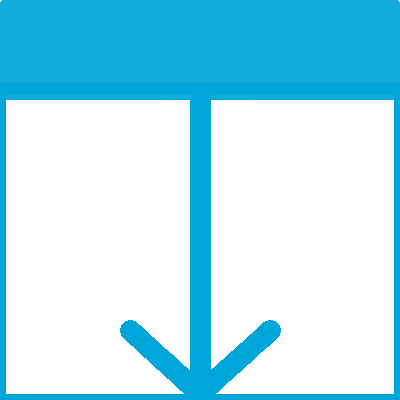
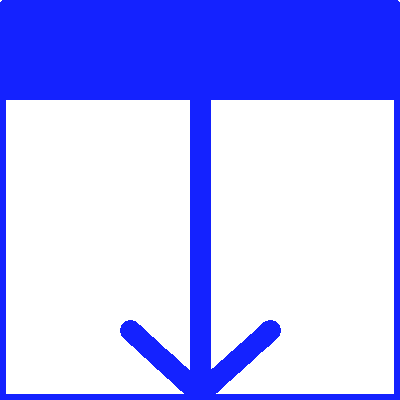
Changes to image colors to make their contrast high enough

diff --git a/templates/main/multipassage.html b/templates/main/multipassage.html
@@ -32,13 +32,13 @@
         {% endfor %}
         {% if 'manifest' in object.objectId %}
             <div class="col-12 entry-title text-center">{% if object.collections.current.sigla != '' %}{{ object.collections.current.sigla|safe }}: {% endif %}{{object.title|safe}}</div>
-            <div class="col-12 text-center"><a href="{{ object.lib_link }}" target="_blank" title="{{ _('Dieser Manuskript bei der Bibliothek in einem neuen Tab anschauen.') }}">{{ _('Zur Bibliothek')}}</a></div>
+            <div class="col-12 text-center"><a class="internal-link" href="{{ object.lib_link }}" target="_blank" title="{{ _('Dieser Manuskript bei der Bibliothek in einem neuen Tab anschauen.') }}">{{ _('Zur Bibliothek')}}</a></div>
         {% else %}
             {% if object.prev_version %}
                 {% set all_texts = all_texts|replace_indexed_item(index - 1, object.prev_version) %}
                 {% set all_reffs = all_reffs|replace_indexed_item(index - 1, 'all') %}
                 <div class="col-1">
-                    <a href="{{url_for('InstanceNemo.r_multipassage', objectIds=all_texts|join_list_values('+'), subreferences=all_reffs|join_list_values('+')) }}" title="{{ prev_obj }}"><i class="fas fa-step-backward"></i></a>
+                    <a class="internal-link" href="{{url_for('InstanceNemo.r_multipassage', objectIds=all_texts|join_list_values('+'), subreferences=all_reffs|join_list_values('+')) }}" title="{{ prev_obj }}"><i class="fas fa-step-backward"></i></a>
                 </div>
                 {% set all_texts = all_texts|replace_indexed_item(index - 1, object.objectId) %}
                 {% else %}
@@ -49,19 +49,19 @@
                 {% set all_texts = all_texts|replace_indexed_item(index - 1, session['previous_search'][ns.hit_index - 1]['_id']) %}
                 {% set all_reffs = all_reffs|replace_indexed_item(index - 1, 'all') %}
                 <div class="col-1">
-                    <a href="{{url_for('InstanceNemo.r_multipassage', objectIds=all_texts|join_list_values('+'), subreferences=all_reffs|join_list_values('+')) }}" title="{{ _('Vorheriges Suchergebnis') }}"><i class="fas fa-chevron-up"></i></a>
+                    <a class="internal-link" href="{{url_for('InstanceNemo.r_multipassage', objectIds=all_texts|join_list_values('+'), subreferences=all_reffs|join_list_values('+')) }}" title="{{ _('Vorheriges Suchergebnis') }}"><i class="fas fa-chevron-up"></i></a>
                 </div>
                 {% set all_texts = all_texts|replace_indexed_item(index - 1, object.objectId) %}
                 {% else %}
                 <div class="col-1">
                 </div>
             {% endif %}
-            <div class="col entry-title text-center">{% if object.collections.current.sigla != '' %}{{ object.collections.current.sigla|safe }}: {% endif %}{{object.collections.current.label|safe}}<a id="{{ object.objectId|replace(':', '-')|replace('.', '-') }}" tabindex="0" type="button" class="btn btn-link px-1" data-container="body" data-toggle="charter-bibl-popover" data-placement="right" data-html="true" data-content="<button type=&quot;button&quot; class=&quot;close&quot; aria-label=&quot;Close&quot; onclick=&quot;closePopup('{{ object.objectId|replace(':', '-')|replace('.', '-') }}')&quot;&gt;☒&lt;/button&gt;{{ object.collections.current.citation }}"><i class="fas fa-quote-right" title="{{ _('Empfohlene Zitierweise') }}"></i></a>{% if 'manifest' not in object.collections.current.id %}<a href="{{ url_for('InstanceNemo.r_pdf', objectId=object.collections.current.id) }}" title="{{ _('Diesen Text als PDF herunterladen.') }}"><i class="fas fa-file-download"></i></a>{% endif %}</div>
+            <div class="col entry-title text-center">{% if object.collections.current.sigla != '' %}{{ object.collections.current.sigla|safe }}: {% endif %}{{object.collections.current.label|safe}}<a id="{{ object.objectId|replace(':', '-')|replace('.', '-') }}" tabindex="0" type="button" class="btn btn-link px-1" data-container="body" data-toggle="charter-bibl-popover" data-placement="right" data-html="true" data-content="<button type=&quot;button&quot; class=&quot;close&quot; aria-label=&quot;Close&quot; onclick=&quot;closePopup('{{ object.objectId|replace(':', '-')|replace('.', '-') }}')&quot;&gt;☒&lt;/button&gt;{{ object.collections.current.citation }}"><i class="fas fa-quote-right" title="{{ _('Empfohlene Zitierweise') }}"></i></a>{% if 'manifest' not in object.collections.current.id %}<a class="internal-link" href="{{ url_for('InstanceNemo.r_pdf', objectId=object.collections.current.id) }}" title="{{ _('Diesen Text als PDF herunterladen.') }}"><i class="fas fa-file-download"></i></a>{% endif %}</div>
             {% if ns.hit_index != -1 and ns.hit_index + 1 < session['previous_search']|length %}
                 {% set all_texts = all_texts|replace_indexed_item(index - 1, session['previous_search'][ns.hit_index + 1]['_id']) %}
                 {% set all_reffs = all_reffs|replace_indexed_item(index - 1, 'all') %}
                 <div class="col-1">
-                    <a href="{{url_for('InstanceNemo.r_multipassage', objectIds=all_texts|join_list_values('+'), subreferences=all_reffs|join_list_values('+')) }}" title="{{ _('Nächstes Suchergebnis') }}"><i class="fas fa-chevron-down"></i></a>
+                    <a class="internal-link" href="{{url_for('InstanceNemo.r_multipassage', objectIds=all_texts|join_list_values('+'), subreferences=all_reffs|join_list_values('+')) }}" title="{{ _('Nächstes Suchergebnis') }}"><i class="fas fa-chevron-down"></i></a>
                 </div>
                 {% set all_texts = all_texts|replace_indexed_item(index - 1, object.objectId) %}
                 {% else %}
@@ -72,7 +72,7 @@
                 {% set all_texts = all_texts|replace_indexed_item(index - 1, object.next_version) %}
                 {% set all_reffs = all_reffs|replace_indexed_item(index - 1, 'all') %}
                 <div class="col-1">
-                    <a href="{{url_for('InstanceNemo.r_multipassage', objectIds=all_texts|join_list_values('+'), subreferences=all_reffs|join_list_values('+')) }}" title="{{ next_obj }}"><i class="fas fa-step-forward"></i></a>
+                    <a class="internal-link" href="{{url_for('InstanceNemo.r_multipassage', objectIds=all_texts|join_list_values('+'), subreferences=all_reffs|join_list_values('+')) }}" title="{{ next_obj }}"><i class="fas fa-step-forward"></i></a>
                 </div>
                 {% set all_texts = all_texts|replace_indexed_item(index - 1, object.objectId) %}
                 {% else %}
@@ -93,9 +93,9 @@
 {% endmacro %}
 {% macro version_menu(objId, inRefs, object, index) %}
 <div class="dropleft">
-    <a class="dropdown-toggle add-text-toggle" role="button" data-toggle="dropdown" aria-haspopup="true" aria-expanded="false" title="{{ _('Eine Spalte hinzufügen') }}">
+    <button class="dropdown-toggle add-text-toggle btn btn-link" role="button" data-toggle="dropdown" aria-haspopup="true" aria-expanded="false" title="{{ _('Eine Spalte hinzufügen') }}">
         <img src="{{url_for('InstanceNemo.static', filename='images/add_window.png')}}" alt="{{ _('Eine Spalte hinzufügen') }}">
-    </a>
+    </button>
     <div class="dropdown-menu version-dropdown">
         {% for manifest in object.IIIFviewer if manifest[0] not in request.path %}
             {% if loop.first %}
@@ -170,13 +170,13 @@
         {% if objects|length > 1 %}
         <div class="row py-0 justify-content-center">
             <div class="col-auto text-center">
-                <a href="#" class="reading-format-setter" title="{{ _('Texte nebeneinander zeigen.') }}" value="columns" {% if session['reading_format'] != 'columns' %}{% else %}hidden{% endif %}><img class="img-fluid reading-format-image" src="{{url_for('InstanceNemo.static', filename='images/reading_format_columns.png')}}" alt="{{ _('übereinander') }}"></a>
-                <a href="#" class="reading-format-setter" title="{{ _('Texte übereinander zeigen.') }}" value="rows" {% if session['reading_format'] != 'rows' %}{% else %}hidden{% endif %}><img class="img-fluid reading-format-image" src="{{url_for('InstanceNemo.static', filename='images/reading_format_rows.png')}}" alt="{{ _('übereinander') }}"></a>
+                <a href="#" class="reading-format-setter" title="{{ _('Texte nebeneinander zeigen.') }}" value="columns" {% if session['reading_format'] != 'columns' %}{% else %}hidden{% endif %}><img class="img-fluid reading-format-image" src="{{url_for('InstanceNemo.static', filename='images/reading_format_columns.png')}}" alt="{{ _('Texte nebeneinander') }}"></a>
+                <a href="#" class="reading-format-setter" title="{{ _('Texte übereinander zeigen.') }}" value="rows" {% if session['reading_format'] != 'rows' %}{% else %}hidden{% endif %}><img class="img-fluid reading-format-image" src="{{url_for('InstanceNemo.static', filename='images/reading_format_rows.png')}}" alt="{{ _('Texte übereinander') }}"></a>
                 {% if session['reading_format'] == 'columns' %}
-                <a href="#"><img class="img-fluid reading-format-image scroll-control-image" src="{{url_for('InstanceNemo.static', filename='images/scroll_independently.png')}}" onclick="changeScrollMode(this)" title="{{ _('Texte unabhängig von einander scrollen.') }}"></a>
+                <a href="#" onclick="changeScrollMode(this)" title="{{ _('Texte unabhängig von einander scrollen.') }}"><img class="img-fluid reading-format-image scroll-control-image" src="{{url_for('InstanceNemo.static', filename='images/scroll_independently.png')}}" alt="{{ _('Texte unabhängig scrollen') }}"></a>
                 {% elif session['reading_format'] == 'rows' %}
-                <a href="#" id="max-rows-image"><img class="img-fluid reading-format-image scroll-control-image" src="{{url_for('InstanceNemo.static', filename='images/maximize_reading_rows.png')}}" title="{{ _('Alle Texte maximiert anzeigen.') }}"></a>
-                <a href="#" id="min-rows-image"><img class="img-fluid reading-format-image scroll-control-image" src="{{url_for('InstanceNemo.static', filename='images/minimize_reading_rows.png')}}" title="{{ _('Alle Texte in original Größe anzeigen.') }}"></a>
+                <a href="#" id="max-rows-image" title="{{ _('Alle Texte maximiert anzeigen.') }}"><img class="img-fluid reading-format-image scroll-control-image" src="{{url_for('InstanceNemo.static', filename='images/maximize_reading_rows.png')}}" alt="{{ _('Texte maximieren') }}"></a>
+                <a href="#" id="min-rows-image" title="{{ _('Alle Texte in original Größe anzeigen.') }}"><img class="img-fluid reading-format-image scroll-control-image" src="{{url_for('InstanceNemo.static', filename='images/minimize_reading_rows.png')}}" alt="{{ _('Texte in original Größe') }}"></a>
                 {% endif %}
             </div>
         </div>
@@ -207,13 +207,8 @@
                 </div>
                 <div class="col col-auto part-menu-icon">
                     <div class="dropleft">
-<<<<<<< HEAD
                         <a class="dropdown-toggle part-menu-toggle" role="button" data-toggle="dropdown" aria-haspopup="true" aria-expanded="false" title="{{ _('Formulaische Teile zeigen') }}">
                             <img src="{{url_for('InstanceNemo.static', filename='images/show_part_icon.png')}}" alt="{{ _('Formulaische Teile zeigen') }}">
-=======
-                        <a class="dropdown-toggle part-menu-toggle" role="button" data-toggle="dropdown" aria-haspopup="true" aria-expanded="false" title="{{ _('Urkundenteile zeigen') }}">
-                            <img src="{{url_for('InstanceNemo.static', filename='images/show_part_icon.png')}}" alt="{{ _('Urkundenteile zeigen') }}">
->>>>>>> dev
                         </a>
                         <div class="dropdown-menu part-menu-dropdown">
                             <span class="dropdown-item"><input class="show-all-parts" type="checkbox" value="All-Parts"> <label>{{ _('Alle zeigen') }}</label></span>

diff --git a/assets/css/theme.css b/assets/css/theme.css
@@ -826,6 +826,11 @@ p.flash-grey {
     content: none;
 }
 
+button.add-text-toggle.btn.btn-link {
+    padding: 0;
+    border: none;
+}
+
 .part-menu-toggle::after {
     content: none;
 }
